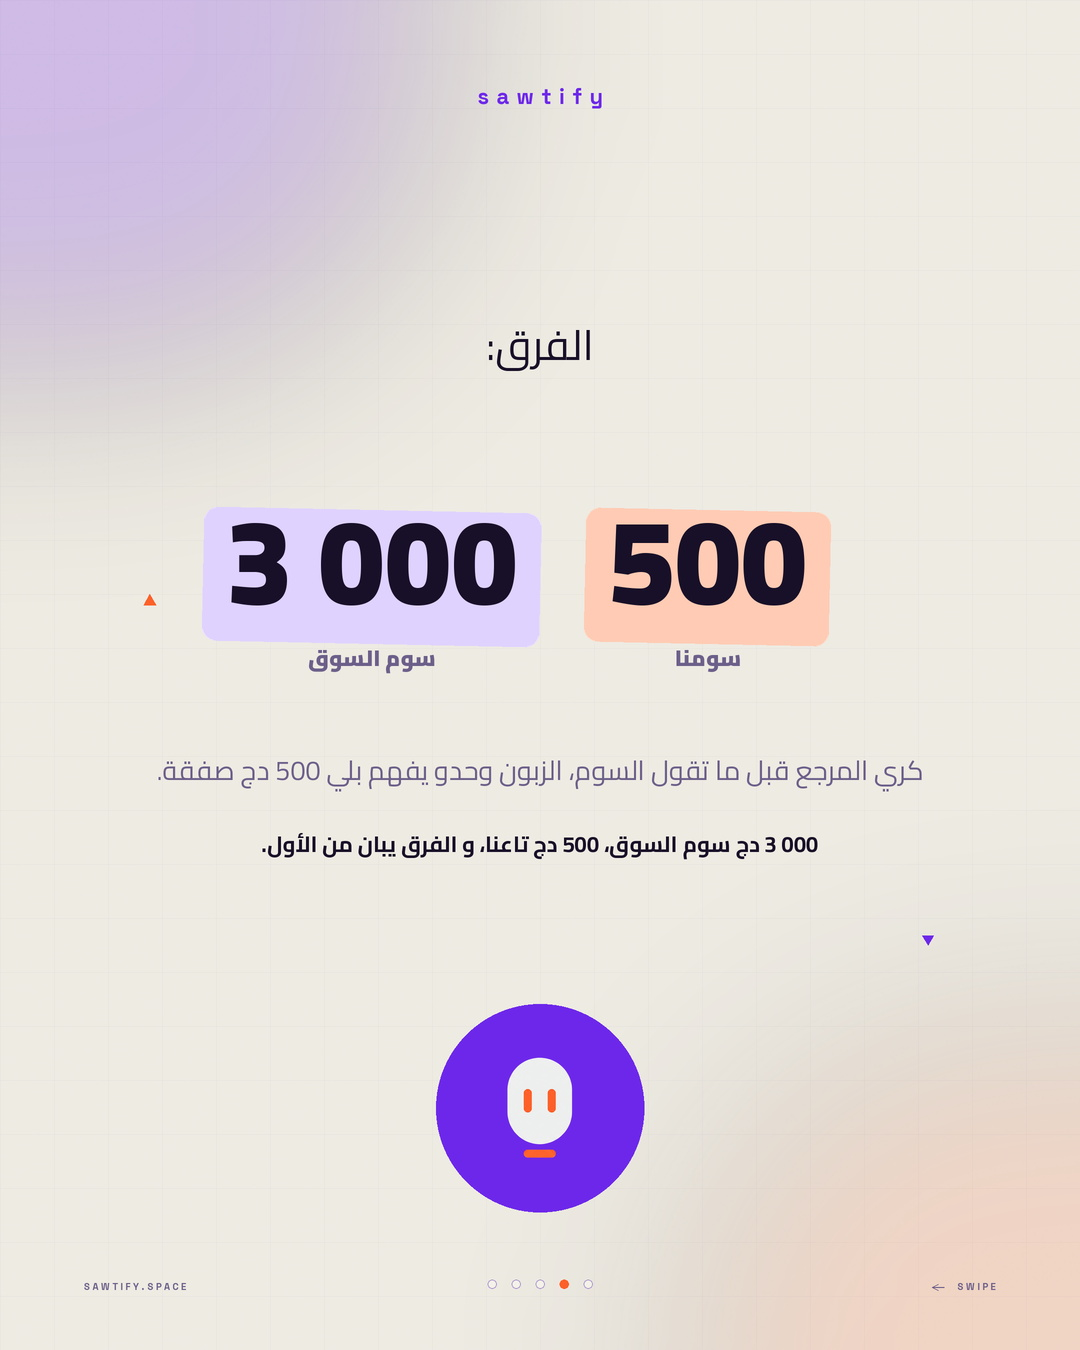
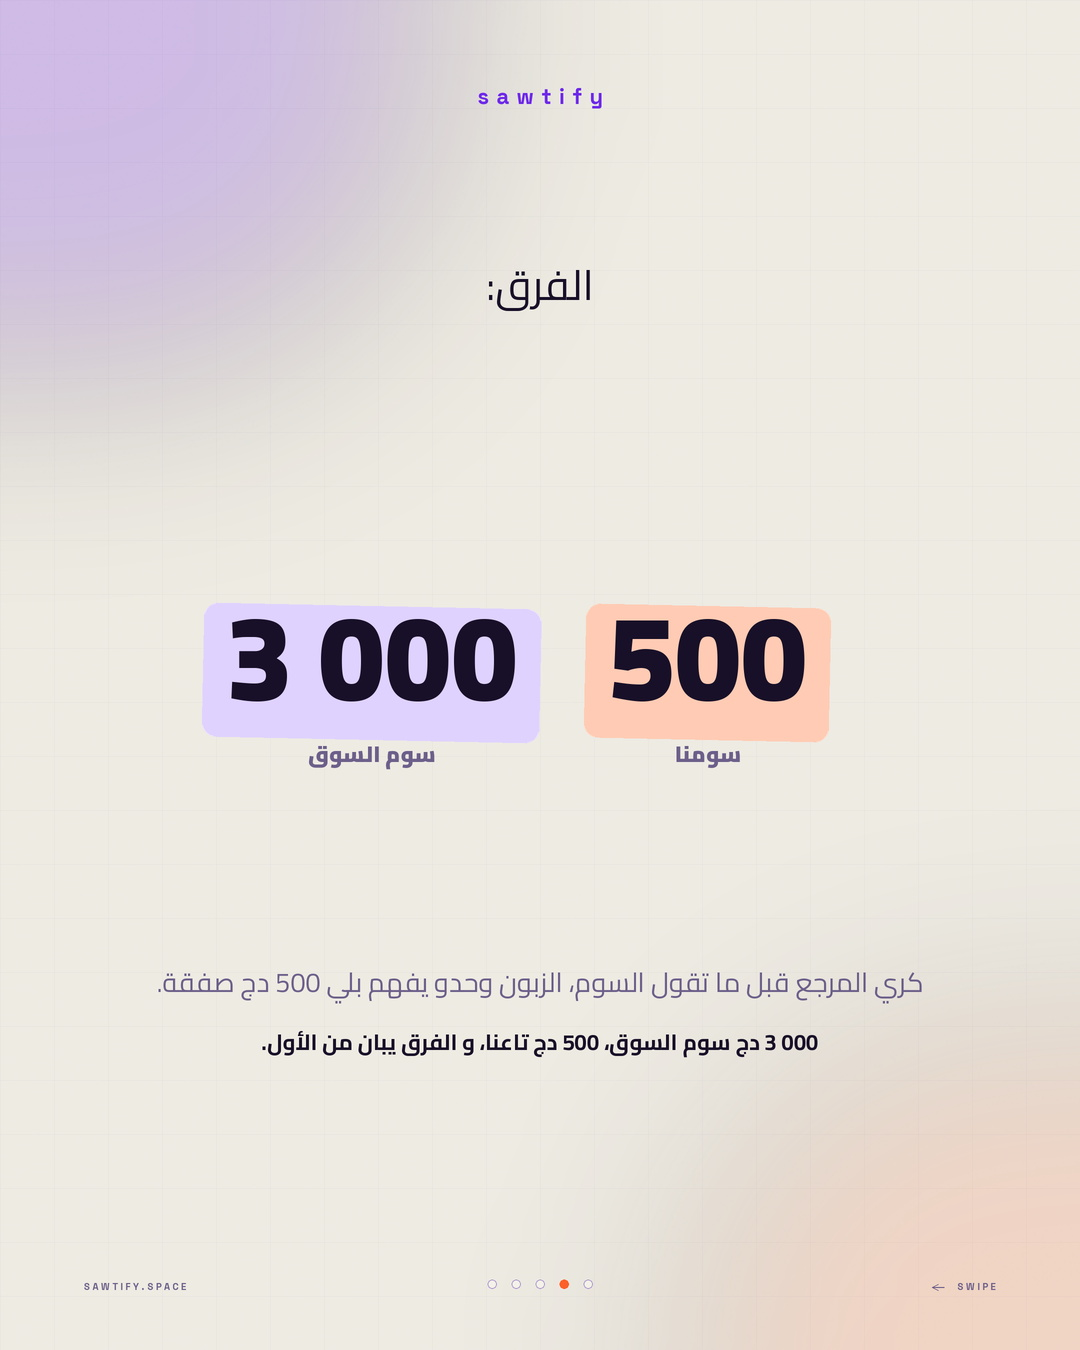
refactor(lettre): grille fixe (kicker 300 / titre 452 / corps 992 / stickers 1096) + nouvelles copies equilibrées

diff --git a/marketing/instagram/lettre.py b/marketing/instagram/lettre.py
@@ -50,6 +50,12 @@ WORD = "SpaceGrotesk-Bold.ttf"
 
 WEIGHT = {"b": BLACK, "m": BOLD, "r": REG}
 
+# grille fixe : toutes les slides partagent les mêmes lignes de base
+KICK_Y = 300.0     # kicker
+TITLE_TOP = 452.0  # ligne de base de la PREMIÈRE ligne de titre
+BODY_Y = 992.0     # paragraphe
+STICK_Y = 1096.0   # rangée de stickers
+
 _logo_cache: dict = {}
 
 
@@ -361,26 +367,22 @@ def finish(base, n, k, last=False):
 def build(spec, seed, rtl=True):
     base = paper(seed=seed)
     wordmark(base)
-    kicker_name = REG
-    tdraw(base, spec["kicker"], W / 2, 348, spec.get("ksize", 40), INK,
-          kicker_name, align="center")
-    y = 348 + spec.get("kgap", 130)
-    size = spec.get("size", 106)
-    # ajustement automatique : aucune ligne ne dépasse la marge
+    tdraw(base, spec["kicker"], W / 2, KICK_Y, spec.get("ksize", 40), INK,
+          REG, align="center")
+    size = spec.get("size", 100)
+    lines_n = spec["lines"]
+
     def line_w(sz):
         return max(sum(twidth(t, WEIGHT[w], sz) for t, w, _ in toks)
-                   + sz * 0.26 * (len(toks) - 1) for toks in spec["lines"])
+                   + sz * 0.26 * (len(toks) - 1) for toks in lines_n)
     while line_w(size) > 936 and size > 56:
         size -= 2
-    # remplit la hauteur quand les lignes sont courtes
-    cap = spec.get("maxsize", 124)
-    while size < cap:
-        h = (len(spec["lines"]) - 1) * size * 1.28 + size * 1.1
-        if h >= 560 or line_w(size + 4) > 936 or size + 4 > cap:
-            break
-        size += 4
-    lead = size * spec.get("lead", 1.28)
-    lines = [list(map(tuple, toks)) for toks in spec["lines"]]
+
+    # titre ancré par le haut : toutes les slides démarrent à la même hauteur
+    while size > 56 and TITLE_TOP + (len(lines_n) - 1) * size * 1.22 > 902:
+        size -= 2
+    lead = size * spec.get("lead", 1.22)
+    lines = [list(map(tuple, toks)) for toks in lines_n]
     gaps = [size * 0.26] * len(lines)
     if rtl and spec.get("justify", True) and len(lines) > 1:
         w_of = [sum(twidth(t, WEIGHT[w], size) for t, w, _ in toks)
@@ -389,6 +391,8 @@ def build(spec, seed, rtl=True):
         out = [justify(toks, size, target) for toks in lines]
         lines = [t for t, _ in out]
         gaps = [g for _, g in out]
+
+    y = TITLE_TOP
     for tokens, gp in zip(lines, gaps):
         hline(base, tokens, W / 2, y, size, rtl=rtl, gap=gp)
         y += lead
@@ -405,6 +409,8 @@ def build(spec, seed, rtl=True):
 # ── 01 · couverture ───────────────────────────────────────────────────────
 def cover(p):
     base, y = build(p["s1"], seed=p["seed"], rtl=p["rtl"])
+    if p["s1"].get("body"):
+        para(base, p["s1"]["body"], W / 2, BODY_Y, 26, MUT, REG, 790, 1.55)
     if p["s1"].get("mascot"):
         mascot(base, W / 2, p["s1"]["mascot"][0], p["s1"]["mascot"][1])
     finish(base, p["n"], 0)
@@ -413,7 +419,7 @@ def cover(p):
 
 def meca(p):
     base, y = build(p["s2"], seed=p["seed"] + 1, rtl=p["rtl"])
-    para(base, p["s2"]["body"], W / 2, y + 26, 26, MUT, REG, 790, 1.55)
+    para(base, p["s2"]["body"], W / 2, BODY_Y, 26, MUT, REG, 790, 1.55)
     finish(base, p["n"], 1)
     return base
 
@@ -421,17 +427,36 @@ def meca(p):
 def steps(p):
     base, y = build(p["s3"], seed=p["seed"] + 2, rtl=p["rtl"])
     if p["s3"].get("body"):
-        para(base, p["s3"]["body"], W / 2, y + 34, 25, MUT, REG, 800, 1.55)
+        para(base, p["s3"]["body"], W / 2, BODY_Y, 25, MUT, REG, 800, 1.55)
     finish(base, p["n"], 2)
     return base
+
+
+def _bar_chart(y):
+    """Deux barres proportionnelles 3 000 / 500 posées sur la grille."""
+    lay = Image.new("RGBA", (W * SS, H * SS), (0, 0, 0, 0))
+    dd = ImageDraw.Draw(lay)
+    x0, x1 = M, W - M
+    span = x1 - x0
+    rows = ((3000, (223, 210, 255)), (500, (255, 203, 180)))
+    for i, (val, col) in enumerate(rows):
+        yy = y + i * 54
+        w = span * val / 3000
+        dd.rounded_rectangle([x0 * SS, yy * SS, (x0 + w) * SS,
+                              (yy + 26) * SS], radius=13 * SS,
+                             fill=(*col, 255))
+        dd.text(((x0 + 10) * SS, (yy + 33) * SS), "", fill=(0, 0, 0, 0))
+    dd.line([x0 * SS, (y - 16) * SS, x1 * SS, (y - 16) * SS],
+            fill=(24, 16, 40, 30), width=int(1.2 * SS))
+    return lay
 
 
 def proof(p):
     s4 = p["s4"]
     base = paper(seed=p["seed"] + 3)
     wordmark(base)
-    tdraw(base, s4["kicker"], W / 2, 360, 42, INK, REG, align="center")
-    y = 604
+    tdraw(base, s4["kicker"], W / 2, KICK_Y, 42, INK, REG, align="center")
+    y = 700
     nsz = 120
     for txt, cx, col in ((s4["num_a"], W / 2 - 168, VIO_SOFT),
                          (s4["num_b"], W / 2 + 168, ORANGE_SOFT)):
@@ -451,18 +476,15 @@ def proof(p):
           align="center")
     tdraw(base, s4["lab_b"], W / 2 + 168, y + 62, 22, MUT, BLACK,
           align="center")
-    yy = para(base, s4["body"], W / 2, y + 176, 27, MUT, REG, 800, 1.55)
-    tdraw(base, s4["note"], W / 2, yy + 30, 22, INK, BOLD, align="center")
-    tri(base, 150, 600, 18, ORANGE, 180)
-    tri(base, 928, 940, 16, VIO, 0)
-    mascot(base, W / 2, 1108, 104)
+    para(base, s4["body"], W / 2, BODY_Y, 27, MUT, REG, 800, 1.55)
+    tdraw(base, s4["note"], W / 2, BODY_Y + 58, 22, INK, BOLD, align="center")
     finish(base, p["n"], 3)
     return base
 
 
 def cta(p):
     base, y = build(p["s5"], seed=p["seed"] + 4, rtl=p["rtl"])
-    top = y + 60
+    top = 966.0
     band = Image.new("RGBA", (int((W - 2 * M) * SS), int(186 * SS)),
                      (0, 0, 0, 0))
     ImageDraw.Draw(band).rounded_rectangle(
@@ -475,7 +497,7 @@ def cta(p):
     base.alpha_composite(band, (int(M * SS), int(top * SS)))
     tdraw(base, p["cta"], W / 2, top + 92, 38, CREAM, BLACK, align="center")
     latin(base, p["url"], W / 2, top + 152, 25, CREAM, WORD, "center", 0.4)
-    para(base, p["end_note"], W / 2, top + 258, 23, MUT, REG, 760, 1.5)
+    para(base, p["end_note"], W / 2, 1218, 23, MUT, REG, 760, 1.5)
     finish(base, p["n"], 4, last=True)
     return base
 
@@ -486,56 +508,56 @@ def cta(p):
 DZ = {
     "id": "dz", "n": 5, "seed": 11, "rtl": True,
     "s1": {
-        "kicker": "شكون احنا:", "size": 104, "maxsize": 106, "kgap": 148,
+        "kicker": "شكون احنا:", "size": 108,
         "lines": [
-            [("نصنعو", "r", None), ("أصوات", "b", "v")],
-            [("تبيع،", "b", None), ("بالدارجة", "r", None)],
-            [("تاع", "b", None), ("البلاد", "b", None), ("من", "r", None)],
-            [("الأول", "r", None), ("حتى", "r", None),
+            [("نصنعو", "r", None), ("أصوات", "b", "v"), ("تبيع،", "b", None)],
+            [("بالدارجة", "r", None), ("تاع", "b", None),
+             ("البلاد", "b", None)],
+            [("من", "r", None), ("الأول", "r", None), ("حتى", "r", None),
              ("الآخر.", "r", None)],
         ],
         "stickers": [
-            dict(text="500 دج", x=296, y=316, rot=-7, fill=VIO, icon="sound"),
-            dict(text="دارجة بلادنا", x=862, y=1105, rot=7, fill=ORANGE,
-                 icon="target"),
-            dict(text="24 ساعة", x=236, y=1105, rot=-5, fill=ORANGE,
-                 icon="spark"),
+            dict(text="500 دج", x=250, y=STICK_Y, rot=-7, fill=VIO,
+                 icon="sound"),
+            dict(text="دارجة بلادنا", x=830, y=STICK_Y, rot=7,
+                 fill=ORANGE, icon="target"),
         ],
-        "marks": [(150, 500, 20, 180, ORANGE), (952, 720, 16, 0, VIO)],
+        "body": "خمس مية دج، بالدارجة، و تسليم في 24 ساعة. تسمعها قبل ما تخلّص.",
+        "marks": [],
     },
     "s2": {
-        "kicker": "علاه هكّاك:", "size": 106, "kgap": 126,
+        "kicker": "علاه هكّاك:", "size": 108,
         "lines": [
             [("دماغك", "b", None), ("ياخذ", "r", None)],
             [("أول", "b", "o"), ("سوم", "b", None), ("و", "r", None)],
             [("يوقف", "b", None), ("عليه.", "r", None)],
         ],
         "stickers": [
-            dict(text="المرجع", x=876, y=1052, rot=6, fill=ORANGE,
+            dict(text="المرجع", x=830, y=STICK_Y, rot=6, fill=ORANGE,
                  icon="target"),
         ],
-        "marks": [(908, 452, 16, 0, ORANGE)],
+        "marks": [],
         "body": "كل سوم بعدو يتقاس بيه، ماشي بالسوق. بدّل بلاصة السوم، "
                 "ماشي السوم.",
     },
     "s3": {
-        "kicker": "واش تدير:", "size": 92, "kgap": 118,
+        "kicker": "واش تدير:", "size": 108,
         "lines": [
             [("ثلاثة", "b", "v"), ("حوايج،", "r", None)],
             [("و", "r", None), ("السوم", "b", "o"), ("يولي", "r", None)],
             [("يهدر", "b", None), ("وحدو.", "r", None)],
         ],
         "stickers": [
-            dict(text="بيّن المرجع", num="01", x=268, y=1088, rot=-5, fill=ORANGE,
-                 icon="target", size=19),
-            dict(text="فسّر السوم", num="02", x=562, y=1088, rot=3, fill=VIO,
-                 icon="sound", size=19),
-            dict(text="قارن بوضوح", num="03", x=858, y=1088, rot=-4, fill=ORANGE,
-                 icon="spark", size=19),
+            dict(text="بيّن المرجع", num="01", x=250, y=STICK_Y, rot=-5,
+                 fill=ORANGE, icon="target", size=19),
+            dict(text="فسّر السوم", num="02", x=540, y=STICK_Y, rot=3,
+                 fill=VIO, icon="sound", size=19),
+            dict(text="قارن بوضوح", num="03", x=830, y=STICK_Y, rot=-4,
+                 fill=ORANGE, icon="spark", size=19),
         ],
         "body": "خدّمهم بالترتيب، ما تخلطش ما بيناتهم: المرجع، التفسير، و من "
                 "بعد المقارنة.",
-        "marks": [(150, 470, 18, 180, VIO)],
+        "marks": [],
     },
     "s4": {
         "kicker": "الفرق:",
@@ -546,16 +568,16 @@ DZ = {
         "note": "3 000 دج سوم السوق، 500 دج تاعنا، و الفرق يبان من الأول.",
     },
     "s5": {
-        "kicker": "و من بعد؟", "size": 92, "kgap": 118, "maxsize": 118,
+        "kicker": "و من بعد؟", "size": 108,
         "lines": [
             [("الترتيب", "b", "v"), ("يبيع", "r", None), ("أكثر", "b", None)],
             [("من", "r", None), ("أي", "r", None), ("تخفيض.", "r", None)],
         ],
         "stickers": [
-            dict(text="ما تنقصش السوم", x=268, y=768, rot=6, fill=ORANGE,
+            dict(text="ما تنقصش السوم", x=268, y=700, rot=6, fill=ORANGE,
                  icon="target"),
         ],
-        "marks": [(164, 900, 18, 180, ORANGE)],
+        "marks": [],
     },
     "cta": "خود الصوت تاعك في 24 ساعة",
     "url": "sawtify.space",
@@ -565,7 +587,7 @@ DZ = {
 FR = {
     "id": "fr", "n": 5, "seed": 12, "rtl": False,
     "s1": {
-        "kicker": "Qui on est :", "ksize": 44, "size": 96,
+        "kicker": "Qui on est :", "ksize": 44, "size": 92,
         "lines": [
             [("On crée", "r", None)],
             [("des voix", "b", "v"), ("qui vendent,", "b", None)],
@@ -574,46 +596,48 @@ FR = {
             [("à la livraison.", "r", None)],
         ],
         "stickers": [
-            dict(text="500 DA", x=286, y=316, rot=-7, fill=VIO, icon="sound"),
-            dict(text="darija algérienne", x=888, y=436, rot=7, fill=ORANGE,
-                 icon="target", size=19),
-            dict(text="24 h", x=214, y=1096, rot=-5, fill=ORANGE, icon="spark"),
+            dict(text="500 DA", x=250, y=STICK_Y, rot=-7, fill=VIO,
+                 icon="sound"),
+            dict(text="darija algérienne", x=830, y=STICK_Y, rot=7,
+                 fill=ORANGE, icon="target"),
         ],
-        "marks": [(150, 500, 20, 180, ORANGE), (952, 720, 16, 0, VIO)],
+        "body": "Cinq cents dinars, en darija, livrés en 24 h. Vous écoutez "
+                "avant de payer.",
+        "marks": [],
     },
     "s2": {
-        "kicker": "Pourquoi :", "ksize": 44, "size": 96, "kgap": 126,
+        "kicker": "Pourquoi :", "ksize": 44, "size": 92,
         "lines": [
             [("Votre cerveau", "b", None)],
             [("retient", "r", None), ("le premier", "b", "o")],
             [("chiffre.", "r", None)],
         ],
         "stickers": [
-            dict(text="ancrage", x=838, y=812, rot=6, fill=ORANGE,
-                 icon="target", size=20),
+            dict(text="ancrage", x=830, y=STICK_Y, rot=6, fill=ORANGE,
+                 icon="target"),
         ],
-        "marks": [(908, 452, 16, 0, ORANGE)],
+        "marks": [],
         "body": "Chaque prix se juge par rapport au précédent, pas par rapport "
                 "au marché. Changez l'ordre, pas le prix.",
     },
     "s3": {
-        "kicker": "Quoi faire :", "ksize": 44, "size": 88, "kgap": 118,
+        "kicker": "Quoi faire :", "ksize": 44, "size": 92,
         "lines": [
             [("Trois", "b", "v"), ("gestes,", "r", None)],
             [("et le prix", "r", None)],
             [("devient", "b", None), ("évident.", "r", None)],
         ],
         "stickers": [
-            dict(text="la réf.", num="01", x=222, y=1092, rot=-5, fill=ORANGE,
-                 icon="target", size=18),
-            dict(text="le détail", num="02", x=544, y=1092, rot=3, fill=VIO,
-                 icon="sound", size=18),
-            dict(text="l’écart", num="03", x=856, y=1092, rot=-4,
+            dict(text="la réf.", num="01", x=250, y=STICK_Y, rot=-5,
+                 fill=ORANGE, icon="target", size=18),
+            dict(text="le détail", num="02", x=540, y=STICK_Y, rot=3,
+                 fill=VIO, icon="sound", size=18),
+            dict(text="l’écart", num="03", x=830, y=STICK_Y, rot=-4,
                  fill=ORANGE, icon="spark", size=18),
         ],
         "body": "Dans cet ordre, sans mélanger : la référence, l'explication, "
                 "puis la comparaison.",
-        "marks": [(150, 470, 18, 180, VIO)],
+        "marks": [],
     },
     "s4": {
         "kicker": "Le chiffre :",
@@ -624,17 +648,17 @@ FR = {
         "note": "3 000 DA le marché, 500 DA chez nous, et l’écart saute aux yeux.",
     },
     "s5": {
-        "kicker": "Et après ?", "ksize": 44, "size": 88, "kgap": 118,
+        "kicker": "Et après ?", "ksize": 44, "size": 92,
         "lines": [
             [("L’ordre", "b", "v"), ("vend", "r", None)],
             [("plus", "b", None)],
             [("qu’une remise.", "r", None)],
         ],
         "stickers": [
-            dict(text="ne baissez pas le prix", x=822, y=604, rot=-6,
+            dict(text="ne baissez pas le prix", x=268, y=810, rot=-6,
                  fill=ORANGE, icon="target", size=18),
         ],
-        "marks": [(164, 900, 18, 180, ORANGE)],
+        "marks": [],
     },
     "cta": "Votre voix en 24 h",
     "url": "sawtify.space",
